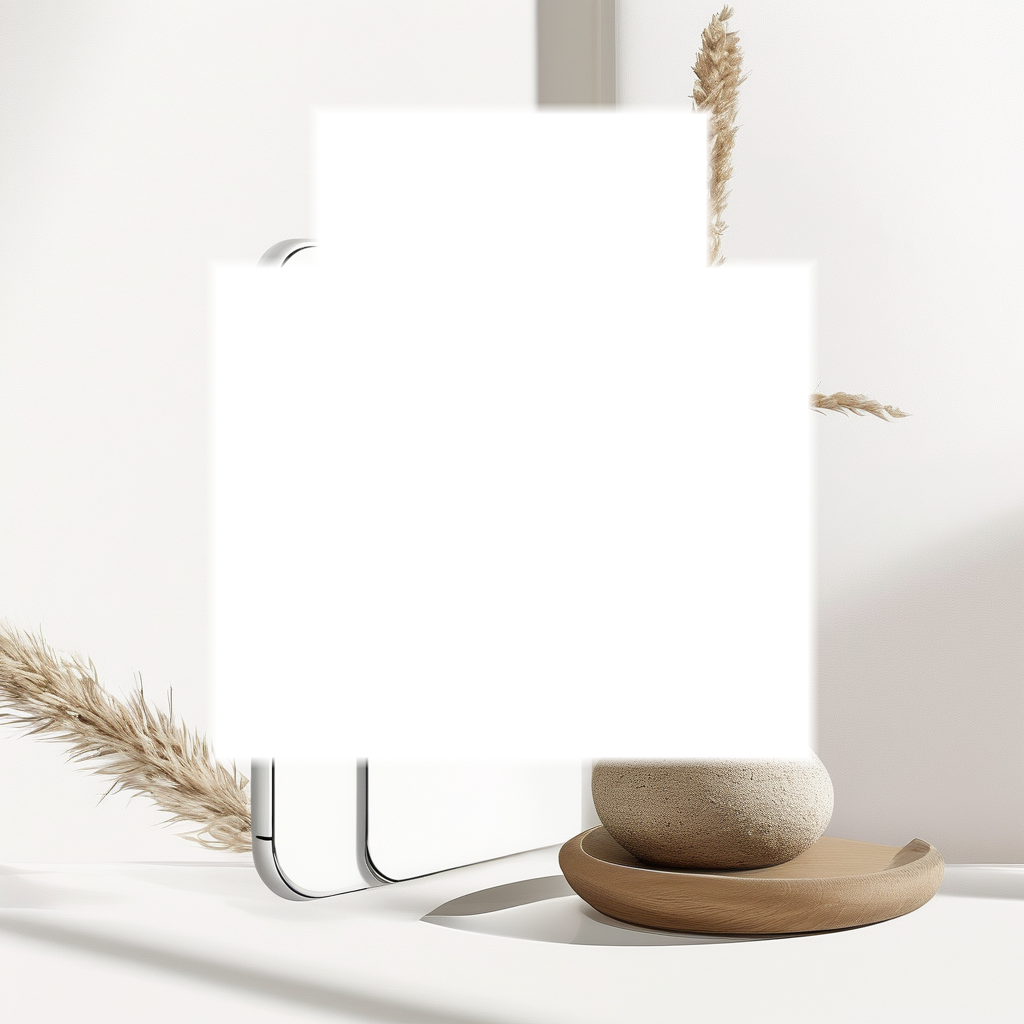
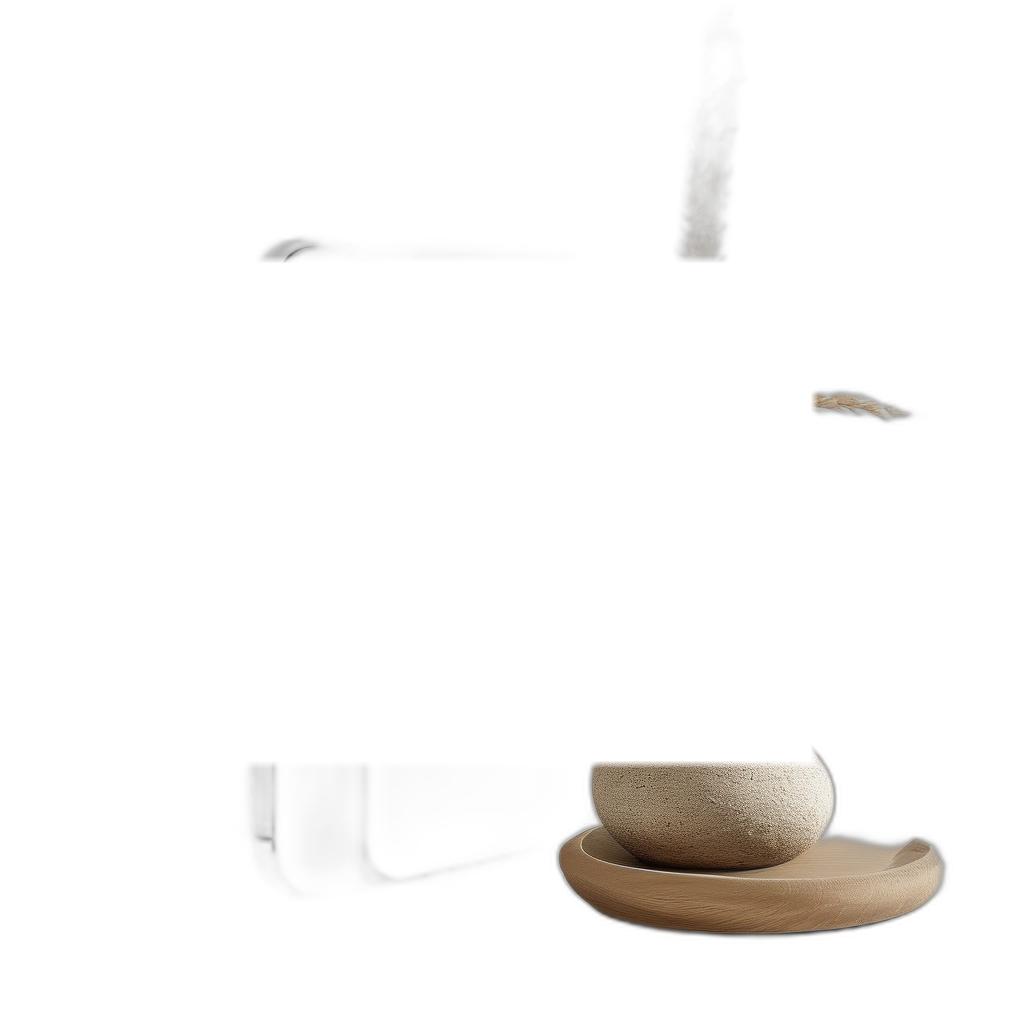
fix: 换用透明背景 mockup + 重新生成前景遮罩，修复商品预览背景消失问题
- tshirt/phonecase/totebag 底图换为 rembg 抠图的透明背景版本
- 重新生成对应的前景遮罩（zone 内透明，zone 外保留商品轮廓）
- blendMode 从 multiply 改为 normal（透明背景不适合 multiply）
- 原始白底图备份为 *-orig.png（未提交）

diff --git a/src/lib/totem-mapping.ts b/src/lib/totem-mapping.ts
@@ -75,7 +75,7 @@ export const PRODUCT_CONFIGS: Record<ProductType, ProductConfig> = {
     label: { zh: 'T恤', en: 'T-Shirt' },
     mockupBase: '/mockups/tshirt.png',
     mockupFg: '/mockups/tshirt-fg.png',
-    blendMode: 'multiply',
+    blendMode: 'normal',
     zones: [
       {
         id: 'chest',
@@ -135,7 +135,7 @@ export const PRODUCT_CONFIGS: Record<ProductType, ProductConfig> = {
     label: { zh: '手机壳', en: 'Phone Case' },
     mockupBase: '/mockups/phonecase.png',
     mockupFg: '/mockups/phonecase-fg.png',
-    blendMode: 'multiply',
+    blendMode: 'normal',
     zones: [
       {
         id: 'center',
@@ -157,7 +157,7 @@ export const PRODUCT_CONFIGS: Record<ProductType, ProductConfig> = {
     label: { zh: '帆布包', en: 'Tote Bag' },
     mockupBase: '/mockups/totebag.png',
     mockupFg: '/mockups/totebag-fg.png',
-    blendMode: 'multiply',
+    blendMode: 'normal',
     zones: [
       {
         id: 'center',
